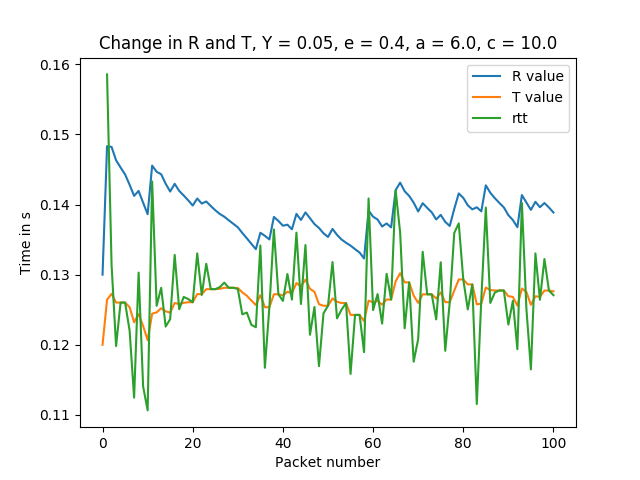
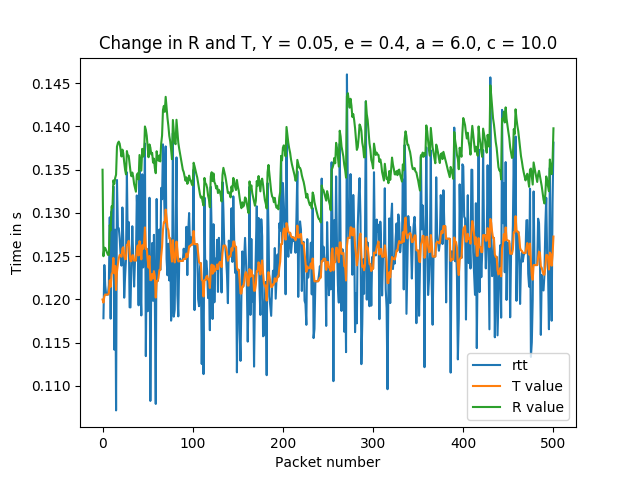
ICMPFixed

diff --git a/assignment1/srcs/clientICMPFixed.py b/assignment1/srcs/clientICMPFixed.py
@@ -45,16 +45,12 @@ class Client:
         self.timeout = 3
 
         # New stuff
-        self.R = 0.135  # Our timeout that adapts
+        self.R = 0.135  # Our fixed timout
         self.a = 6.0
-        self.c = 10.0
         self.b = (self.a - 1) / self.a
-        self.d = (self.c - 1) / self.c
-        self.Y = 0.05  # Retransmission limit
-        self.e = 0.4  # Small constant
+
 
         self.T = 0.12  # Smoothed RTT
-        self.V = 0.00001  # Variance
 
         self.avg_t = 0
 
@@ -93,9 +89,7 @@ class Client:
         if t >= self.R or did_timeout:
             self.timeouts += 1
         
-        self.V = self.d * self.V + ((t - self.T) ** 2) / self.c
         self.T = self.b * self.T + t / self.a
-        self.R = self.T + self.e * (math.sqrt(self.V * (1 - self.Y) / self.Y))
 
         self.rg.append(self.R)
         self.tg.append(self.T)
@@ -109,7 +103,7 @@ class Client:
 def main():
     """Parse command-line arguments and call client function"""
     if len(sys.argv) != 2:
-        sys.exit("Usage: ./client-3wh.py [Server IP]")
+        sys.exit("Usage: ./client-3wh.py [Server IP] [timeout]")
     server_ip = sys.argv[1]
 
     client = Client(server_ip)
@@ -125,14 +119,10 @@ def main():
     plt.plot(client.x_axis, client.rg, label="R value")
     plt.xlabel("Packet number")
     plt.ylabel("Time in s")
-    plt.title(
-        "Change in R and T, Y = {}, e = {}, a = {}, c = {}".format(
-            client.Y, client.e, client.a, client.c
-        )
-    )
+    plt.title("Change in R and T")
     plt.legend()
     plt.show()
-    plt.savefig("graphICMP.png")
+    plt.savefig("graphICMPFixed.png")
     
     print("drops: {} / timeouts: {}".format(client.losses, client.timeouts))
 
